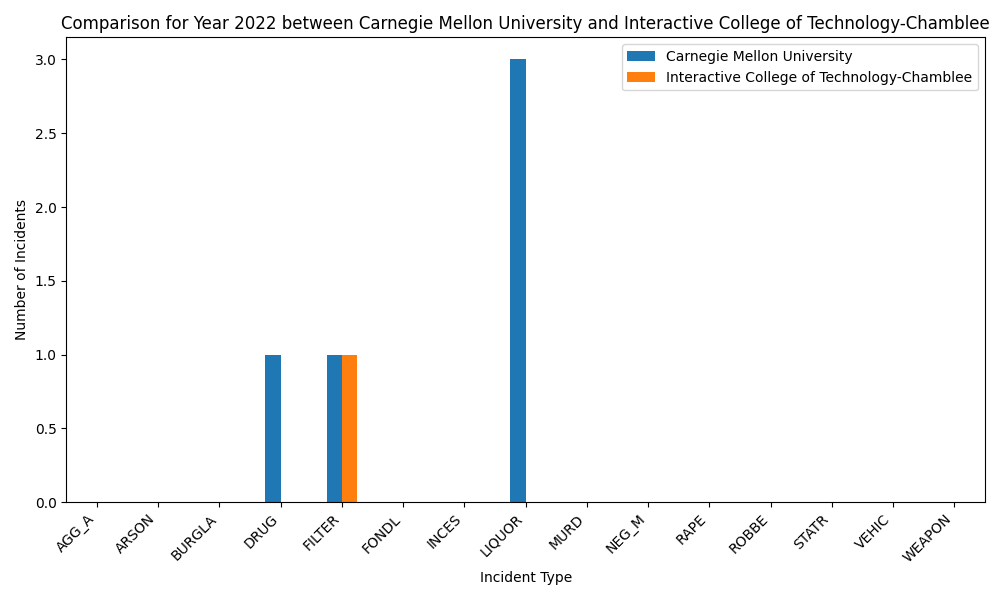
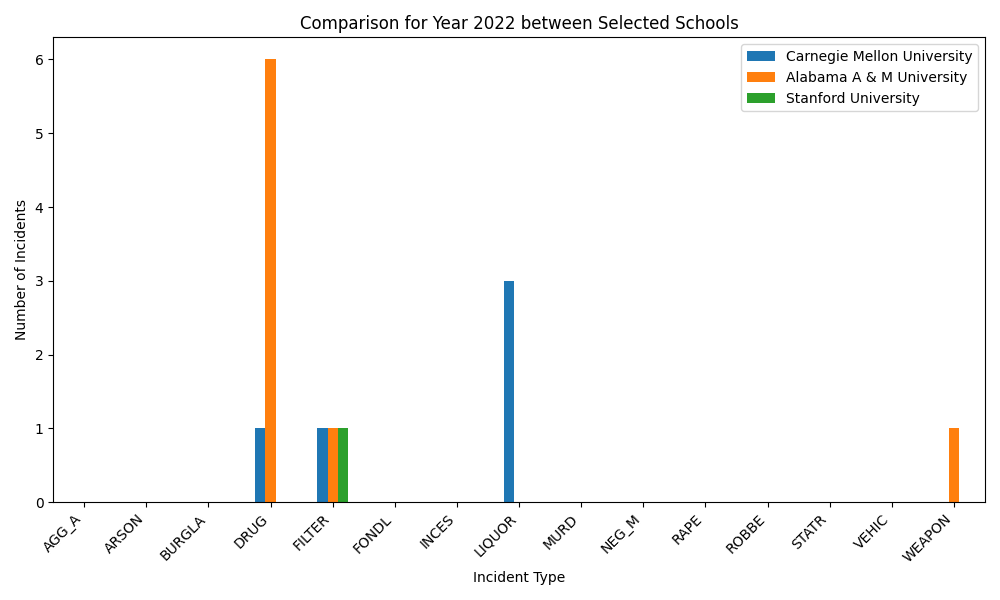
Turn School Comparison into multiple version

diff --git a/flask_app/templates/compare_school.html b/flask_app/templates/compare_school.html
@@ -4,15 +4,46 @@
     <meta charset="UTF-8">
     <meta name="viewport" content="width=device-width, initial-scale=1.0">
     <title>Compare between Schools</title>
+    <script type="text/javascript">
+        // 动态添加学校输入框
+        function addSchoolInput() {
+            var container = document.getElementById("school-container");
+            var inputCount = container.getElementsByTagName("input").length + 1;
+
+            var newLabel = document.createElement("label");
+            newLabel.setAttribute("for", "school" + inputCount);
+            newLabel.innerHTML = "School " + inputCount + ":";
+
+            var newInput = document.createElement("input");
+            newInput.setAttribute("type", "text");
+            newInput.setAttribute("id", "school" + inputCount);
+            newInput.setAttribute("name", "school" + inputCount);
+            newInput.setAttribute("required", "required");
+
+            // 将新创建的 label 和 input 插入到 DOM 中
+            container.appendChild(newLabel);
+            container.appendChild(newInput);
+            container.appendChild(document.createElement("br")); // 添加换行
+        }
+    </script>
 </head>
 <body>
     <h1>Compare between Schools</h1>
     <form action="/compare_school_after" method="post">
-        <label for="school1">School 1:</label>
-        <input type="text" id="school1" name="school1" required>
-        <label for="school2">School 2:</label>
-        <input type="text" id="school2" name="school2" required>
+        <div id="school-container">
+            <label for="school1">School 1:</label>
+            <input type="text" id="school1" name="school1" required>
+            <br>
+            <label for="school2">School 2:</label>
+            <input type="text" id="school2" name="school2" required>
+            <br>
+        </div>
+
+        <button type="button" onclick="addSchoolInput()">Add another school</button>
+        <br><br>
+
         <input type="submit" value="Submit">
+    </form>
     <a href="/">Go Back to Home</a>
 </body>
 </html>

diff --git a/flask_app/templates/compare_school_after.html b/flask_app/templates/compare_school_after.html
@@ -32,17 +32,15 @@
 
     <h1>Compare between Schools</h1>
 
-    {% if not school1.empty and not school2.empty %}
-        <h2>Comparison between {{ school1['INSTNM'] }} and {{ school2['INSTNM'] }}</h2>
+    {% if school_data %}
+        <h2>Comparison between Schools</h2>
 
-        <!-- 添加年份选择 -->
         <div class="year-links">
             <a href="?year=20">2020</a>
             <a href="?year=21">2021</a>
             <a href="?year=22">2022</a>
         </div>
 
-        <!-- 检查是否选择了年份 -->
         {% if year %}
         <h3>Showing data for year 20{{ year }}</h3>
 
@@ -52,17 +50,19 @@
             <thead>
                 <tr>
                     <th>Field</th>
-                    <th>{{ school1['INSTNM'] }}</th>
-                    <th>{{ school2['INSTNM'] }}</th>
+                    {% for school in school_data %}
+                    <th>{{ school['INSTNM'] }}</th>
+                    {% endfor %}
                 </tr>
             </thead>
             <tbody>
-                {% for key, value1 in school1.items() %}
-                    {% if '20' not in key and '21' not in key and '22' not in key%}  <!-- 只显示选定年份的数据 -->
+                {% for key in school_data[0].keys() %}
+                    {% if '20' not in key and '21' not in key and '22' not in key%}
                     <tr>
                         <td>{{ key }}</td>
-                        <td>{{ value1 }}</td>
-                        <td>{{ school2[key] }}</td>
+                        {% for school in school_data %}
+                        <td>{{ school[key] }}</td>
+                        {% endfor %}
                     </tr>
                     {% endif %}
                 {% endfor %}

diff --git a/flask_app/templates/home.html b/flask_app/templates/home.html
@@ -13,8 +13,7 @@
         <li><a href="/trend_analysis">View Crime Trend Analysis</a></li>
         <li><a href="/trend_analysis_over_time">View Crime Trend Analysis Over Time</a></li>
         <li><a href="/crime_distribution">View Crime Category Distribution</a></li>
-        <li><a href="/compare_school">Compare Between Schools</a></li>
-    </ul>
+        </ul>
     <h1>Highest Ranking Universities Crime Data (Source: US News)</h1>
     <ul>
         <li><a href="/crime_map_top">View Crime Map of Top Universities</a></li>
@@ -29,6 +28,11 @@
         <li><a href="/scrape_latitude_and_longitude">Scrape Latitude and Longitude Coordinates</a></li>
         <li><a href="/scrape_spotcrime">Scrape Spotcrime Data</a></li>
         <li><a href="/scrape_spotcrime_top">Scrape Spotcrime Data for Top Universities</a></li>
+    </ul>
+
+    <h1>Comparison</h1>
+    <ul>
+        <li><a href="/compare_school">Compare Between Schools</a></li>
     </ul>
 </body>
 </html>

diff --git a/flask_app/app.py b/flask_app/app.py
@@ -156,32 +156,34 @@ def compare_school():
 @app.route('/compare_school_after', methods=['GET', 'POST'])
 def compare_school_after():
     if request.method == 'POST':
-        school1_name = request.form.get('school1').lower()
-        school2_name = request.form.get('school2').lower()
-        df = get_dataframe()
+        schools = []
+        for key in request.form:
+            if "school" in key:
+                schools.append(request.form[key].lower())
 
-        # Search for the two schools in the merged dataframe
-        school1 = next((school for index, school in df.iterrows() if school1_name in school['INSTNM'].lower()), None)
-        school2 = next((school for index, school in df.iterrows() if school2_name in school['INSTNM'].lower()), None)
+        df = get_dataframe() 
 
-        # Render template with both school results
-        if school1.any() and school2.any():
-            session['school1'] = school1.to_dict()
-            session['school2'] = school2.to_dict()
-            return render_template('compare_school_after.html', school1=school1, school2=school2)
+        school_data = []
+        for school_name in schools:
+            school = next((school for index, school in df.iterrows() if school_name in school['INSTNM'].lower()), None)
+            if school is not None:
+                school_data.append(school.to_dict())
+
+        if school_data:
+            session['school_data'] = school_data 
+            return redirect(url_for('compare_school_after'))  
         else:
-            error_msg = "One or both schools were not found. Please try again."
-            return render_template('`compare_school_after.html', error=error_msg)
+            error_msg = "No schools were found. Please try again."
+            return render_template('compare_school_after.html', error=error_msg)
     else:
-        year = request.args.get('year')      
-        school1 = session.get('school1')
-        school2 = session.get('school2')
-
-        if school1 and school2:
-            image_path = create_bar_chart(school1, school2, year)
-            return render_template('compare_school_after.html', school1=school1, school2=school2, year=year, image_file=image_path)
+        school_data = session.get('school_data', [])
+        year = request.args.get('year','20')
+        if school_data:
+            image_path = create_bar_chart(school_data, year)
+            return render_template('compare_school_after.html', school_data=school_data, year=year, image_file=image_path)
         else:
-            return redirect(url_for('/home'))
+            return redirect(url_for('home'))
+        
 
 
 @app.route('/scrape_spotcrime_top')

diff --git a/flask_app/get_dataframe.py b/flask_app/get_dataframe.py
@@ -41,14 +41,23 @@ def get_dataframe():
     merged_df = merge_csv_files(file_paths)
     return merged_df
 
-def create_bar_chart(school1, school2, year):
+def create_bar_chart(school_data, year):
     matplotlib.use('Agg')
-    data = {key[:-2]: [school1[key], school2[key]] for key in school1 if year in key}
+    
+    data = {}
+    for school in school_data:
+        for key in school:
+            if year in key:
+                field_name = key[:-2]  
+                if field_name not in data:
+                    data[field_name] = []
+                data[field_name].append(school[key]) 
 
-    df = pd.DataFrame(data, index=[school1['INSTNM'], school2['INSTNM']])
+    school_names = [school['INSTNM'] for school in school_data]  
+    df = pd.DataFrame(data, index=school_names)
 
     ax = df.T.plot(kind='bar', figsize=(10, 6))
-    plt.title(f'Comparison for Year 20{year} between {school1["INSTNM"]} and {school2["INSTNM"]}')
+    plt.title(f'Comparison for Year 20{year} between Selected Schools')
     plt.ylabel('Number of Incidents')
     plt.xlabel('Incident Type')
 
